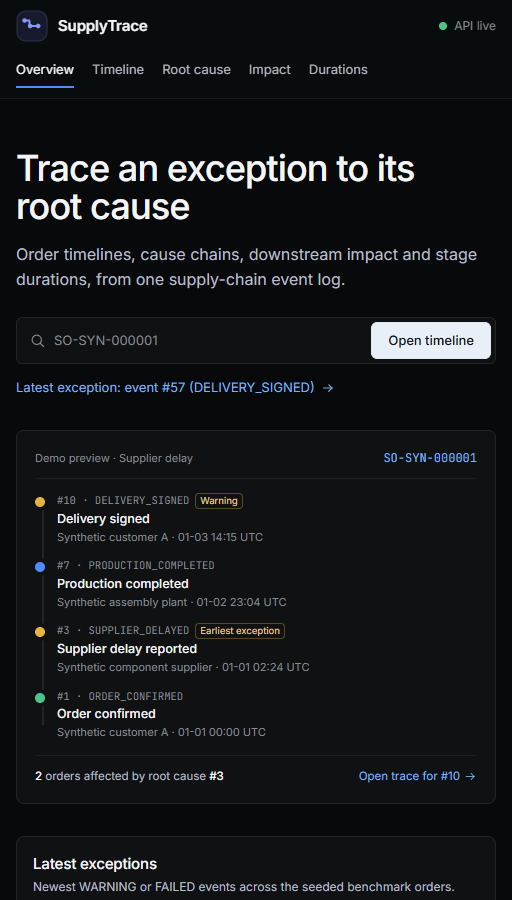
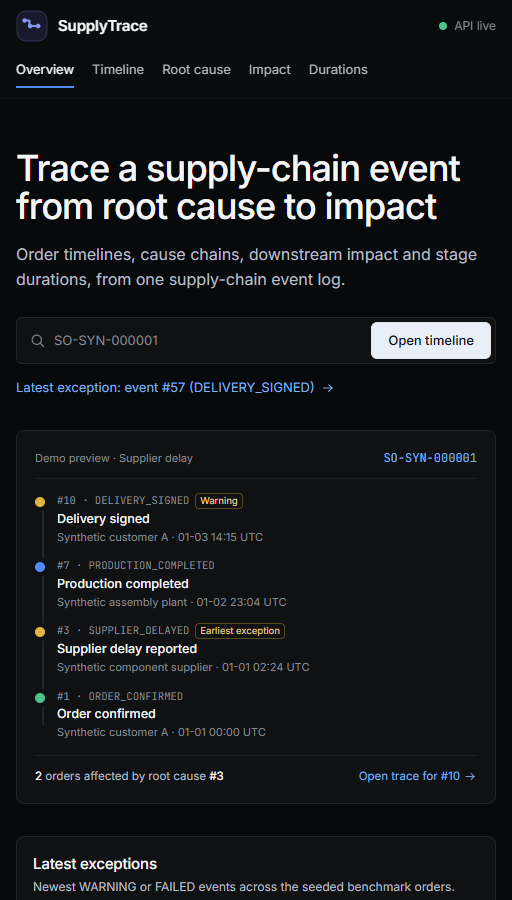
fix(frontend): state the full trace in the hero headline
Use a supply-chain event and both root cause and impact in the hero, with responsive line breaks that keep supply-chain intact on narrow screens. Updated the home and health screenshots.

Changed region(s): [[0.0312, 0.1556, 0.9062, 0.2489]]

diff --git a/frontend/src/pages/HomePage.tsx b/frontend/src/pages/HomePage.tsx
@@ -21,9 +21,11 @@ export function HomePage() {
       <section className="hero">
         <div className="hero__body">
           <h1 className="hero__title">
-            Trace an exception to its{' '}
-            <br />
-            root cause
+            Trace a <span className="nowrap">supply-chain</span>
+            <br className="hero__break-sm" />
+            {' '}event{' '}
+            <br className="hero__break-lg" />
+            from root cause to impact
           </h1>
           <p className="hero__subtitle">
             Order timelines, cause chains, downstream impact and stage durations, from one{' '}

diff --git a/frontend/src/styles.css b/frontend/src/styles.css
@@ -836,6 +836,10 @@ button {
   letter-spacing: -0.025em;
 }
 
+.hero__break-sm {
+  display: none;
+}
+
 .hero__subtitle {
   max-width: 680px;
   margin: 16px 0 24px;
@@ -2364,10 +2368,15 @@ a.graph-node:hover {
   }
 
   .hero__title {
+    font-size: clamp(30px, 9vw, 36px);
     text-wrap: balance;
   }
 
-  .hero__title br {
+  .hero__break-sm {
+    display: inline;
+  }
+
+  .hero__break-lg {
     display: none;
   }
 }

diff --git a/docs/part4/README.md b/docs/part4/README.md
@@ -52,7 +52,7 @@ Precision Dark：中性石墨表面、发丝边框、单一蓝色强调色；Nor
 - 最新异常表补充客户与承诺日期（订单号/时间下方副行），耗时页主指标改为 `Slowest P90`，平均值保留在副文案和图表中。
 - 导航以 sessionStorage 记住最近一组有效上下文（订单、事件及其所属订单）；从事件页回到 Overview 后，Timeline / Root cause / Impact 不再跳回 demo 默认值，事件导航链接也继续带 `?order=`。从事件进入订单时间线后，该订单的 Root cause / Impact 保持刚看过的事件；直接打开订单时由时间线发布该订单最新异常作为锚点，不会落到另一个订单的场景根事件。
 - 导航逻辑不绑定具体订单号/事件号：订单页来自时间线响应，事件页来自 URL；demo 订单列表、场景映射和默认值集中在 `demo.ts`。接入真实订单时把服务端订单列表传给 `useRecentExceptions(orderNumbers)` 并替换演示默认值即可；不带 `?order=` 的真实事件深链还需后端在事件响应中补 `order_number`。
-- `npm run typecheck`、`npm run build`、`npm test` 通过（8 个测试文件、43 项测试）；路由级代码分割后主包 290.3 kB（gzip 91.4 kB），耗时页 378.1 kB（gzip 108.9 kB，含 Recharts）。
+- `npm run typecheck`、`npm run build`、`npm test` 通过（8 个测试文件、43 项测试）；路由级代码分割后主包 290.4 kB（gzip 91.5 kB），耗时页 378.1 kB（gzip 108.9 kB，含 Recharts）。
 - 数据 GET 请求对网络错误和 502/503/504 自动重试一次（约 300 ms 后）；懒加载 chunk 失效时 `ErrorBoundary` 自动刷新一次，减少偶发错误页需要手动刷新的情况。
 
 ## 三个基准场景的界面证据

diff --git a/frontend/README.md b/frontend/README.md
@@ -119,6 +119,6 @@ frontend/
 - `npm test` 通过：8 个测试文件、43 项测试（ID 解析、日期解析、阶段统计、图深度/选中节点、演示场景与 `benchmark_cases.json` 对齐、最新异常排序、时间线倒序、导航上下文解析与持久化、时间线请求合并与单调用方取消、网络/503 重试与 404 不重试）。
 - 四个视图与供应商延期路径已在本机真实 FastAPI + PostgreSQL 上逐页截图检查（1920×1080、1280、768、512、375 宽度）；另外两个基准场景的接口返回值经 API 验证。
 - 在 100,000 事件库（seed 5003，10,989 订单）上复测：基准场景的订单时间线、根因链、影响节点数和受影响订单与 57 事件库完全一致；耗时页显示 10,989 个样本（P90 15.43 h / 平均 13.06 h）；随机订单 `SO-SYN-010989` 和随机事件 `#38546` 可正常深链；1280/375 无控制台错误或横向溢出。
-- 路由级代码分割：主包 290.3 kB（gzip 91.4 kB），耗时页 378.1 kB（gzip 108.9 kB，含 Recharts）。
+- 路由级代码分割：主包 290.4 kB（gzip 91.5 kB），耗时页 378.1 kB（gzip 108.9 kB，含 Recharts）。
 - 数据 GET 请求对网络错误和 502/503/504 自动重试一次（约 300 ms 后）；懒加载 chunk 失效时 `ErrorBoundary` 会自动刷新一次，避免开发期 HMR 或部署切换留下错误页。503/504 错误页已用受控响应拦截截图验证，错误码与 HTTP 状态均来自统一信封。
 - API 契约与错误码以 [docs/part3/API_CONTRACT.md](../docs/part3/API_CONTRACT.md) 为准；字段未在前端猜测或改名。
